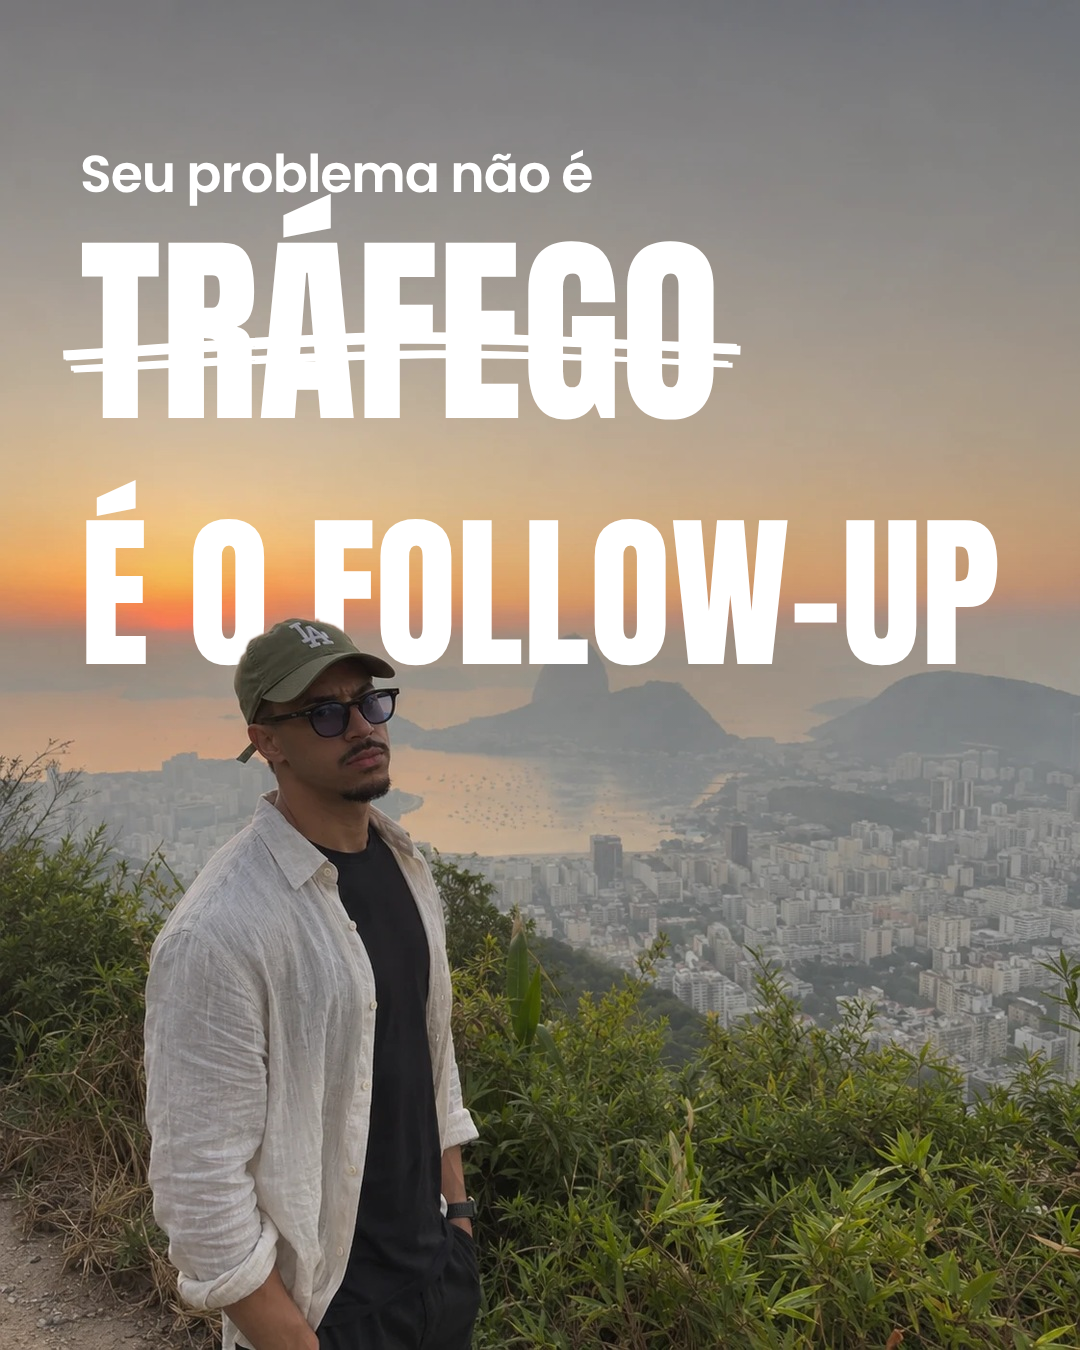
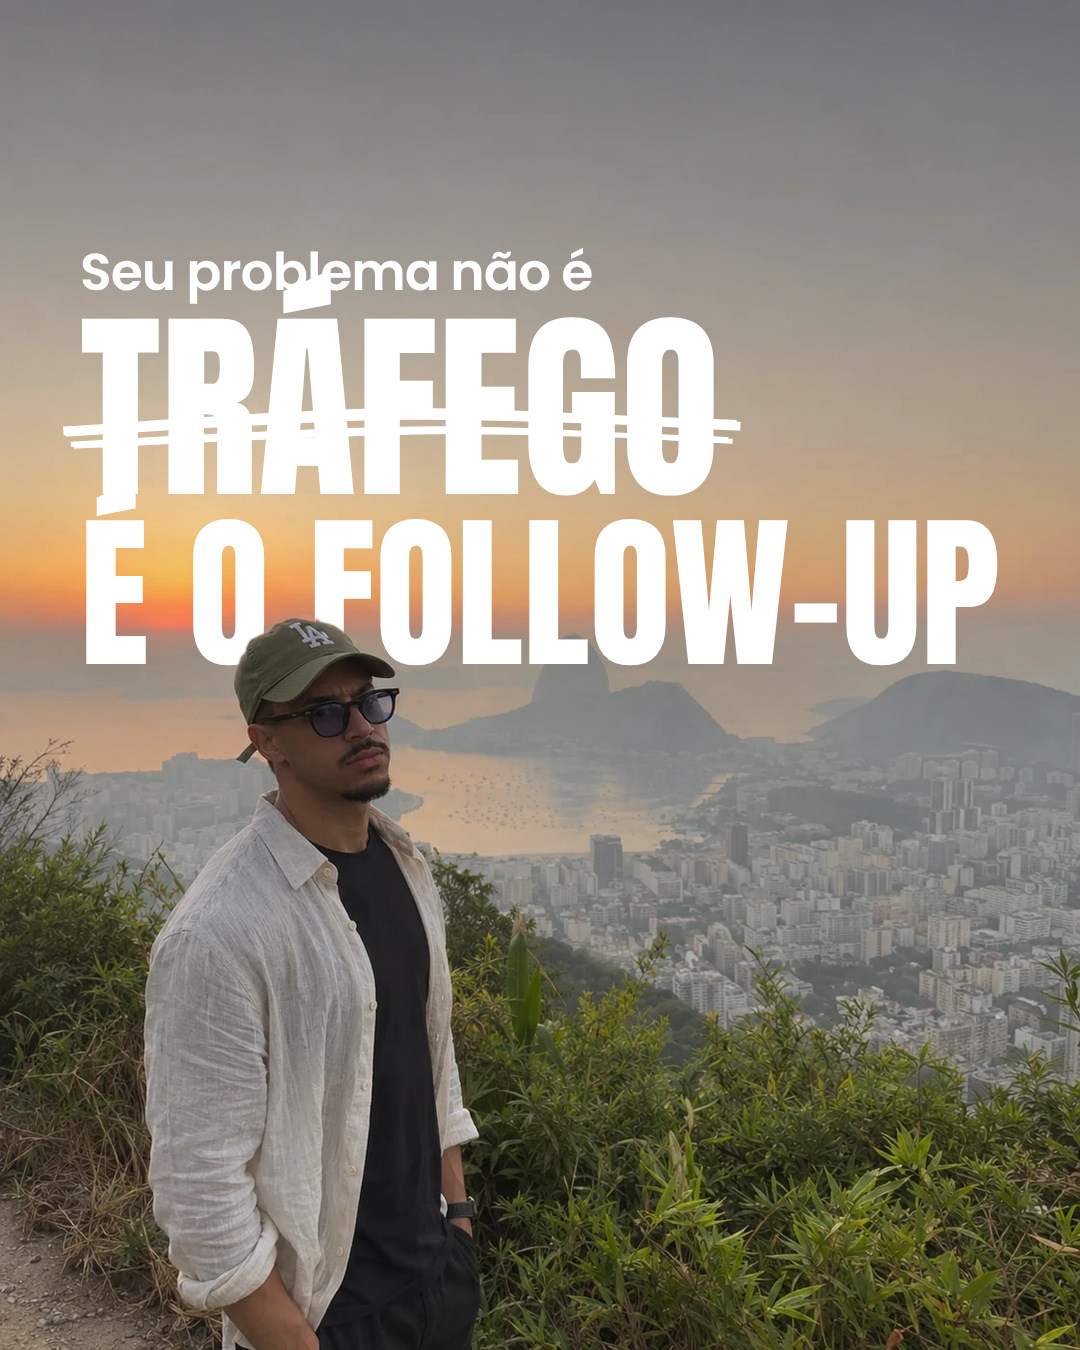
Carrossel 03: capa escolhida (opção B, texto mais junto)
Claude-Session: https://claude.ai/code/session_01CR2zLXebwu2nvAjBiSDjK9

Changed region(s): [[0.0611, 0.0933, 0.7028, 0.3733]]

diff --git a/carrossel/carrosseis/03-follow-up/capa/opcoes-rio.html b/carrossel/carrosseis/03-follow-up/capa/opcoes-rio.html
@@ -19,8 +19,8 @@ const S={
     ['back','TRÁFEGO',"font:400 230px Anton",{cx:540,base:418,fit:600}],
     ['front','é o',"font:italic 500 42px Poppins",{cx:540,base:472,pill:1}],
     ['back','FOLLOW-UP',"font:400 300px Anton",{cx:540,base:664,fit:920}]],
- b:[['back','Seu problema não é',"font:600 52px Poppins;letter-spacing:-.02em",{x:80,base:192}],
-    ['back','TRÁFEGO',"font:400 230px Anton",{x:80,base:418,fit:640,strike:1}],
+ b:[['back','Seu problema não é',"font:600 52px Poppins;letter-spacing:-.02em",{x:80,base:290}],
+    ['back','TRÁFEGO',"font:400 230px Anton",{x:80,base:494,fit:640,strike:1}],
     ['back','É O FOLLOW-UP',"font:400 300px Anton",{x:80,base:664,fit:920}]],
  c:[['back','Seu problema',"font:500 24px Poppins;letter-spacing:.42em;text-transform:uppercase",{x:84,base:178}],
     ['back','não é tráfego.',"font:300 150px Poppins;letter-spacing:-.05em",{x:76,base:388,fit:920}],

diff --git a/carrossel/carrosseis/03-follow-up/capa/render-rio.js b/carrossel/carrosseis/03-follow-up/capa/render-rio.js
@@ -1,7 +1,7 @@
 const { chromium } = require("playwright"); const path = require("path");
 (async () => {
   const b = await chromium.launch(); const p = await b.newPage({ viewport: { width: 1080, height: 1350 } });
-  for (const v of ["a","b","c","d"]) {
+  for (const v of (process.argv[2]||"a,b,c,d").split(",")) {
     await p.goto("file://" + path.join(__dirname, "opcoes-rio.html") + "?v=" + v);
     await p.waitForSelector("body[data-ok]"); await p.waitForTimeout(250);
     await (await p.$(".c")).screenshot({ path: path.join(__dirname, `opcao-rio-${v}.png`) });
